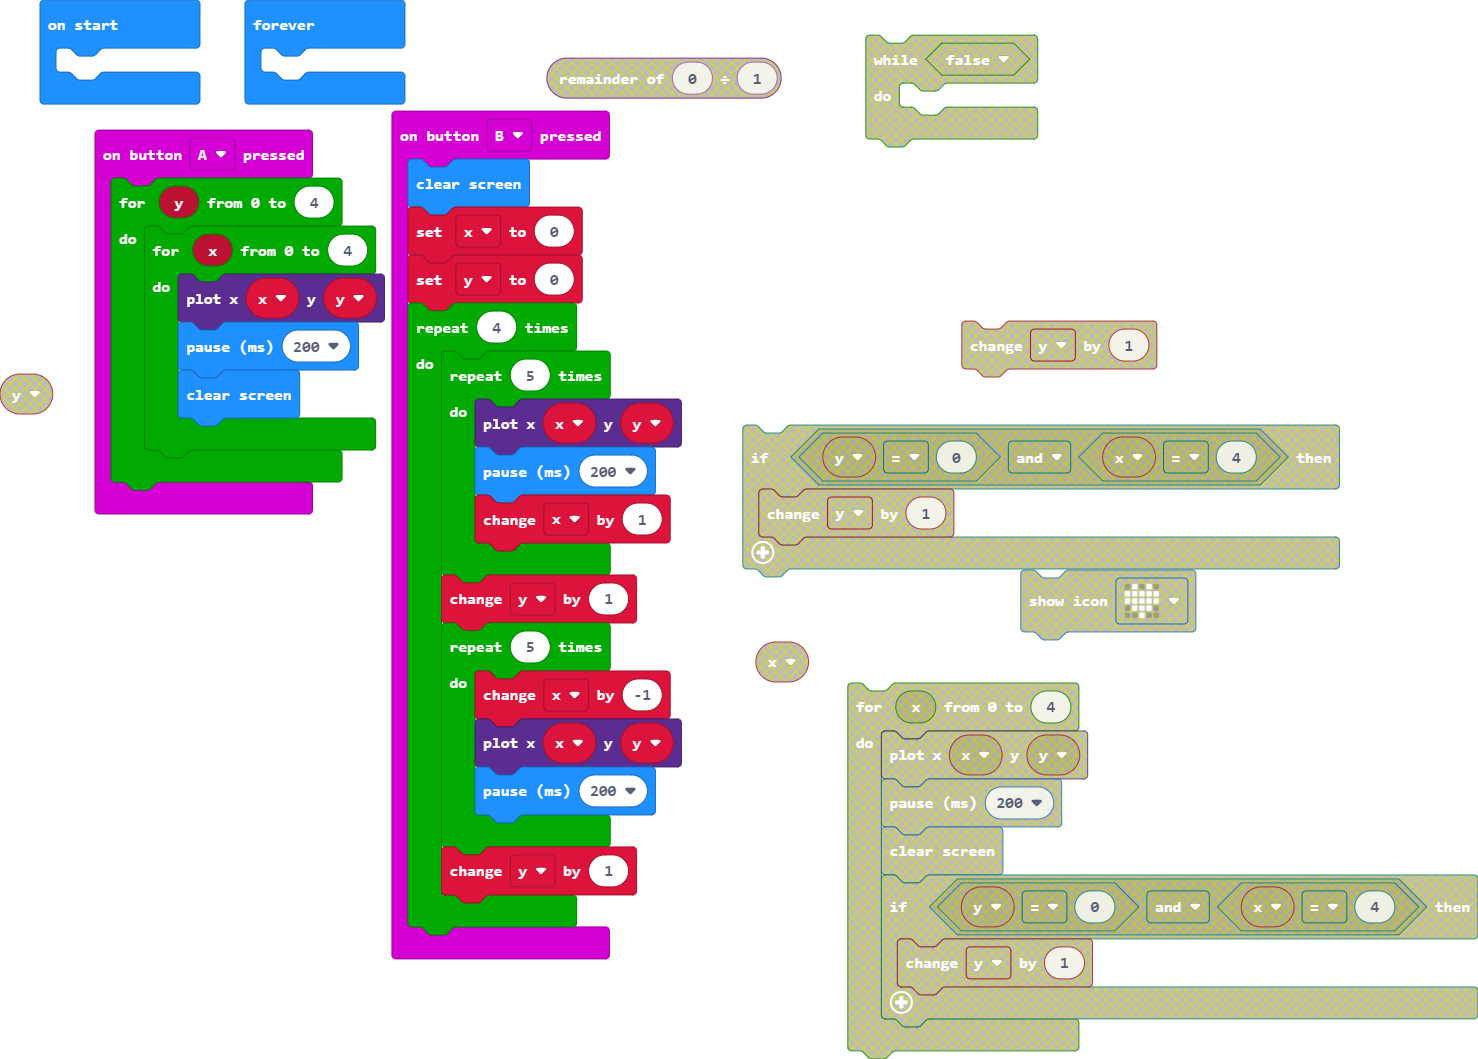
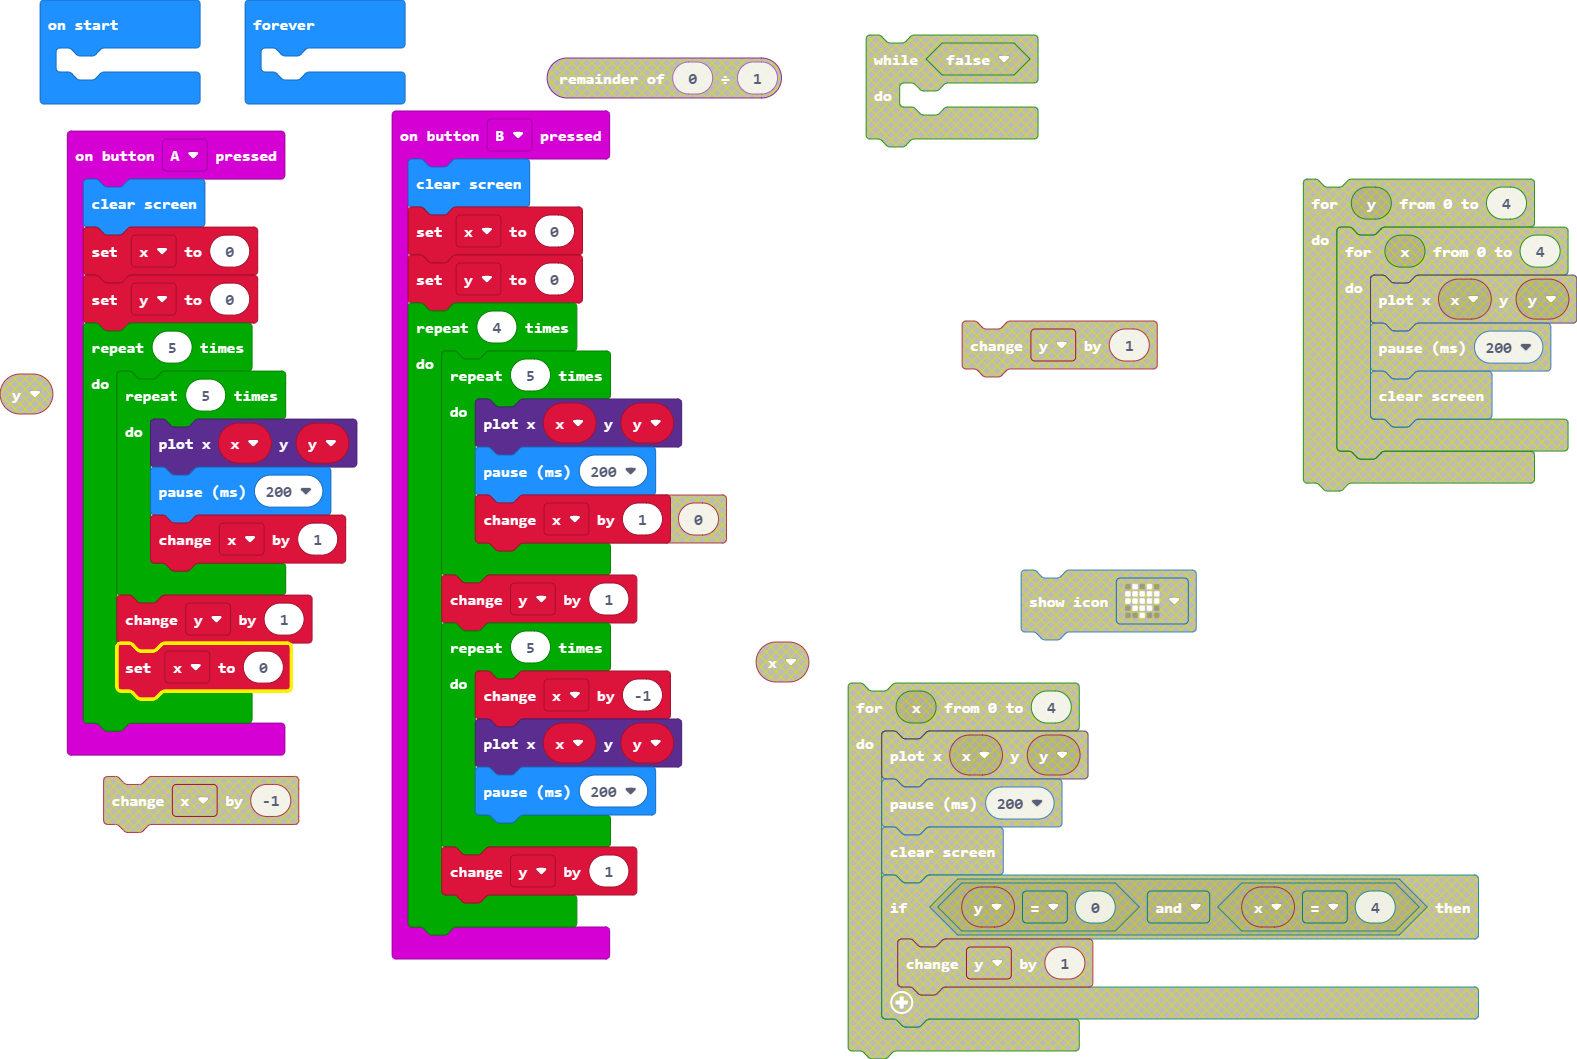
Update main.blocks, main.ts

diff --git a/main.ts b/main.ts
@@ -1,12 +1,17 @@
 let x = 0
 let y = 0
 input.onButtonPressed(Button.A, function () {
-    for (let y = 0; y <= 4; y++) {
-        for (let x = 0; x <= 4; x++) {
+    basic.clearScreen()
+    x = 0
+    y = 0
+    for (let index = 0; index < 5; index++) {
+        for (let index = 0; index < 5; index++) {
             led.plot(x, y)
             basic.pause(200)
-            basic.clearScreen()
+            x += 1
         }
+        y += 1
+        x = 0
     }
 })
 input.onButtonPressed(Button.B, function () {
